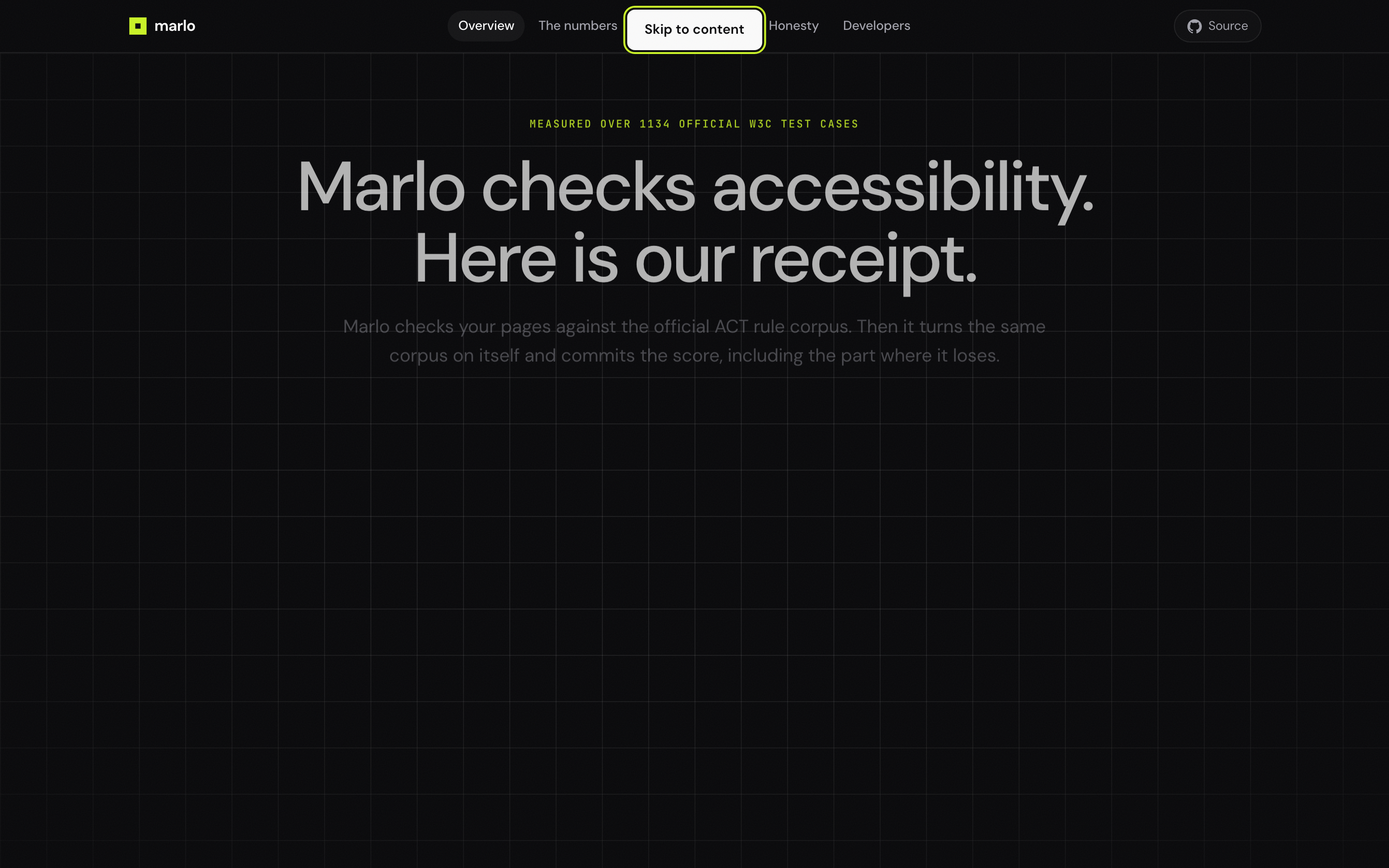
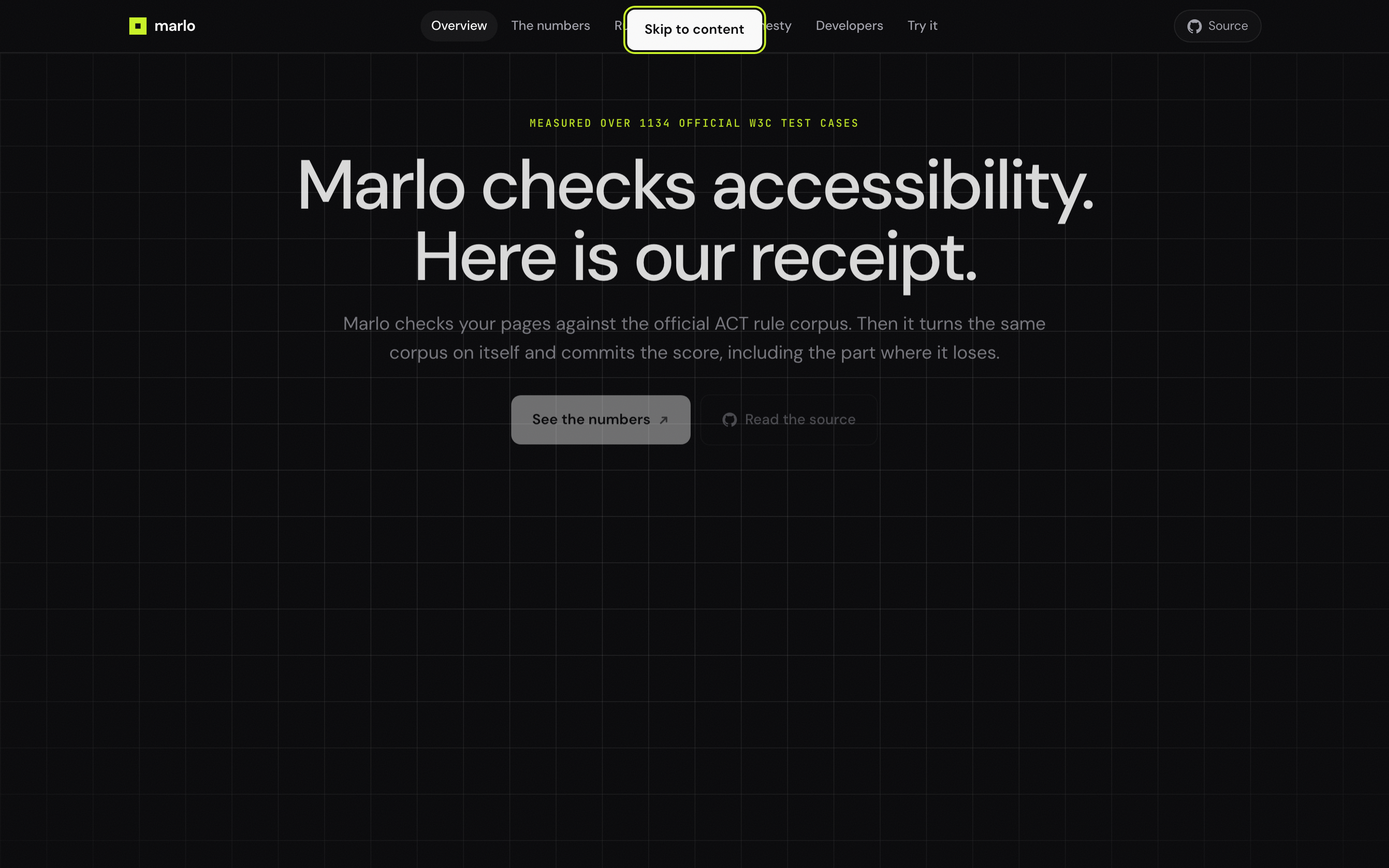
docs: list the playground, bookmarklet and image as ways in
README gains a no-install paragraph and three rows in the table of ways
in, and says what the browser surfaces do not run. SECURITY.md describes
the playground's sandbox and policy, and the privacy and developer pages
say the same. Screenshots are recaptured with the new navigation item.

diff --git a/README.md b/README.md
@@ -13,7 +13,9 @@ Marlo will. It checks pages against the [official W3C ACT rule corpus](https://a
 
 That figure is what `marlo scan` reports, measured as a whole over the 41 rules it evaluates. Until recently this line printed 5.6%, which is the rate of Marlo's own rule engine, one component of the product. The product reports a failure whenever any of its four engines does, and that costs precision. [HONESTY.md entry 17](HONESTY.md#17-the-front-page-measured-a-component-and-the-routing-was-graded-on-its-own-answers).
 
-**[trymarlo.pages.dev](https://trymarlo.pages.dev)** · [the numbers](calibration/README.md) · [where Marlo was wrong](HONESTY.md)
+**[trymarlo.pages.dev](https://trymarlo.pages.dev)** · [try it in your browser](https://trymarlo.pages.dev/try/) · [the numbers](calibration/README.md) · [where Marlo was wrong](HONESTY.md)
+
+**Try it without installing anything.** Paste HTML into the [playground](https://trymarlo.pages.dev/try/) and Marlo's own rules check it in your browser, with each rule's measured precision beside every finding; nothing you paste leaves the page. The same page has a bookmarklet that checks any page you open. For the full four-engine scan, `docker run --rm -v "$PWD:/work" ghcr.io/karthiksubramanian07/marlo scan page.html`.
 
 ---
 
@@ -273,17 +275,20 @@ Five of the nine are ours. Under the protocol W3C publishes implementation repor
 
 ---
 
-## Five ways in, one set of numbers
+## Eight ways in, one set of numbers
 
-|                   |                                                  |                                                                  |
-| ----------------- | ------------------------------------------------ | ---------------------------------------------------------------- |
-| **CLI**           | `marlo scan`, `explain`, `coverage`              | Exits 1 on findings, 3 on a rule it could not evaluate           |
-| **Library**       | `@marlo/cli`, `@marlo/report`                    | The pipeline and the surfaces, importable                        |
-| **SARIF 2.1.0**   | `--sarif`                                        | Per-engine provenance on every result, for the code scanning tab |
-| **GitHub Action** | [`.github/actions/marlo`](.github/actions/marlo) | Read-only by default; an opt-in mode opens a pull request        |
-| **MCP**           | [`@marlo/mcp`](packages/mcp)                     | Three read-only tools. No `fix` tool, and there will not be one  |
+|                   |                                                           |                                                                    |
+| ----------------- | --------------------------------------------------------- | ------------------------------------------------------------------ |
+| **Playground**    | [trymarlo.pages.dev/try](https://trymarlo.pages.dev/try/) | Marlo's own rules on pasted HTML, in your browser, sending nothing |
+| **Bookmarklet**   | On the same page                                          | The same rules on any page you open, in a panel beside it          |
+| **Docker**        | `ghcr.io/karthiksubramanian07/marlo`                      | The CLI with nothing else installed; amd64 and arm64               |
+| **CLI**           | `marlo scan`, `explain`, `coverage`                       | Exits 1 on findings, 3 on a rule it could not evaluate             |
+| **Library**       | `@marlo/cli`, `@marlo/report`                             | The pipeline and the surfaces, importable                          |
+| **SARIF 2.1.0**   | `--sarif`                                                 | Per-engine provenance on every result, for the code scanning tab   |
+| **GitHub Action** | [`.github/actions/marlo`](.github/actions/marlo)          | Read-only by default; an opt-in mode opens a pull request          |
+| **MCP**           | [`@marlo/mcp`](packages/mcp), or `trymarlo.pages.dev/mcp` | Three read-only tools. No `fix` tool, and there will not be one    |
 
-The last two are where the safety promise stops being prose. In an Action, what Marlo may write is a statement about a permission, so the Action reads the permissions it was handed before it does anything. By default it refuses any token that can write to the repository. With `open-pull-request: true` it requires exactly `contents: write` and `pull-requests: write`, refuses every other write scope, applies only fixes that cleared the measured gate and verified, and opens one pull request whose branch name is derived from the edits, so a second run over the same state opens nothing. It refuses to write to the default branch, never force-updates a ref, and never merges. The body carries, per fix, the measurement the decision rested on and the three verification answers, and per refusal the number that disqualified it. Over MCP, a model calls tools with no human in between, so the server has no tool that writes and a test asserts the package does not import `writeFileSync` at all.
+The playground and the bookmarklet run only Marlo's own engine, so they find less than the CLI: no axe-core, Alfa or HTML CodeSniffer, no routing, and no invariant. They say so on the page. The Action and MCP are where the safety promise stops being prose. In an Action, what Marlo may write is a statement about a permission, so the Action reads the permissions it was handed before it does anything. By default it refuses any token that can write to the repository. With `open-pull-request: true` it requires exactly `contents: write` and `pull-requests: write`, refuses every other write scope, applies only fixes that cleared the measured gate and verified, and opens one pull request whose branch name is derived from the edits, so a second run over the same state opens nothing. It refuses to write to the default branch, never force-updates a ref, and never merges. The body carries, per fix, the measurement the decision rested on and the three verification answers, and per refusal the number that disqualified it. Over MCP, a model calls tools with no human in between, so the server has no tool that writes and a test asserts the package does not import `writeFileSync` at all.
 
 ---
 

diff --git a/SECURITY.md b/SECURITY.md
@@ -120,11 +120,13 @@ Static pages plus one Worker that serves calibration data.
 
 |                      |                                                                                               |
 | -------------------- | --------------------------------------------------------------------------------------------- |
-| Accepts user content | **No.** There is no upload, no scan-a-URL form, and no field that accepts a page to test      |
+| Accepts user content | **Never on the server.** No upload and no scan-a-URL form. See the playground, below          |
 | Cookies              | None                                                                                          |
 | Analytics            | Cloudflare Web Analytics if enabled, which is cookieless and stores no per-visitor identifier |
 | Personal data stored | None                                                                                          |
 | Database contents    | Calibration history only, which is a projection of committed files in `calibration/`          |
+
+**The playground and the bookmarklet.** `/try/` is the one page that serves a script, and the script is Marlo's own rules. Markup pasted there is written into an iframe with `sandbox="allow-same-origin"` and no `allow-scripts`, so its scripts never run and its forms cannot submit, and it is evaluated in the visitor's browser. The page's policy is `connect-src 'none'` and allows script from the site's own origin only, so neither the playground nor anything pasted into it can send a request; its one permitted base URL is on `.invalid`, which never resolves, so relative URLs in pasted markup go nowhere. The bookmarklet loads the same rules into whatever page the visitor opens, evaluates it there, and makes no request of its own. Its panel is built with DOM calls and `textContent` inside a closed shadow root, so text from the page cannot inject markup into it. A site test fails if either script contains a timer or any request API.
 
 The absence of a hosted scanner is a deliberate architectural choice rather than a missing feature. A hosted scanner means accepting arbitrary URLs, rendering them in a browser we operate, and becoming a request-forgery surface and an abuse vector. It is also the component that would cost money, per [D-007](DECISIONS.md#d-007). Both reasons point the same way.
 

diff --git a/CHANGELOG.md b/CHANGELOG.md
@@ -23,6 +23,9 @@ Nothing is published to a registry yet. There is no installable release, so ther
 - `calibration/analysis.json` and `ANALYSIS.md`: what `marlo scan` reports measured as a whole, every engine alone, the routed engine in sample and leave one out, a majority of engines, Wilson intervals on every proportion, pairwise agreement between engines, the flattered column's sensitivity to its threshold, and the routing scored on rated real pages once any exist.
 - `node scripts/rate.mjs --rater A` (or `B`), a local interface for rating the real pages.
 - Ground truth for all 1025 real-page cells, rated independently by two language models blind to every engine, with the 40 disagreements settled by a third (D-014). Every sheet, resolution and published figure names the kind of rater and the model, and the schema refuses a rated cell without them. `scripts/rater-validity.mjs` grades the same raters on the 594 official test cases of the same rules with their names hidden, and writes `corpus/real/adjudication/RATER-VALIDITY.md`.
+- A playground at [trymarlo.pages.dev/try](https://trymarlo.pages.dev/try/). Paste HTML and Marlo's own rules check it in your browser, inside a sandboxed frame where its scripts never run, with each rule's measured precision beside every finding and the report downloadable as JSON. The page's policy forbids any request, so nothing pasted leaves the browser. The rules are bundled from source at site build time.
+- A bookmarklet on the same page that runs those rules on any page the visitor opens and lists the failures in a panel, outlining an element when it is chosen.
+- A container image, `ghcr.io/karthiksubramanian07/marlo`, for amd64 and arm64: the CLI with nothing to install but Docker. A workflow builds it on every pull request that touches it, checks that the broken demo fails and the clean one passes, and publishes from `main`.
 - `calibration/ERROR-ANALYSIS.md`, which names a root cause for each of the 70 real-page cells Marlo's own engine gets wrong, with what it said and what both raters said, and reruns the engine in headless Chromium to separate renderer errors from rule errors. `scripts/error-analysis.mjs --check` runs in CI and fails if the stored verdicts stop reproducing the calibration table or a wrong cell has no cause.
 
 ### Accuracy
